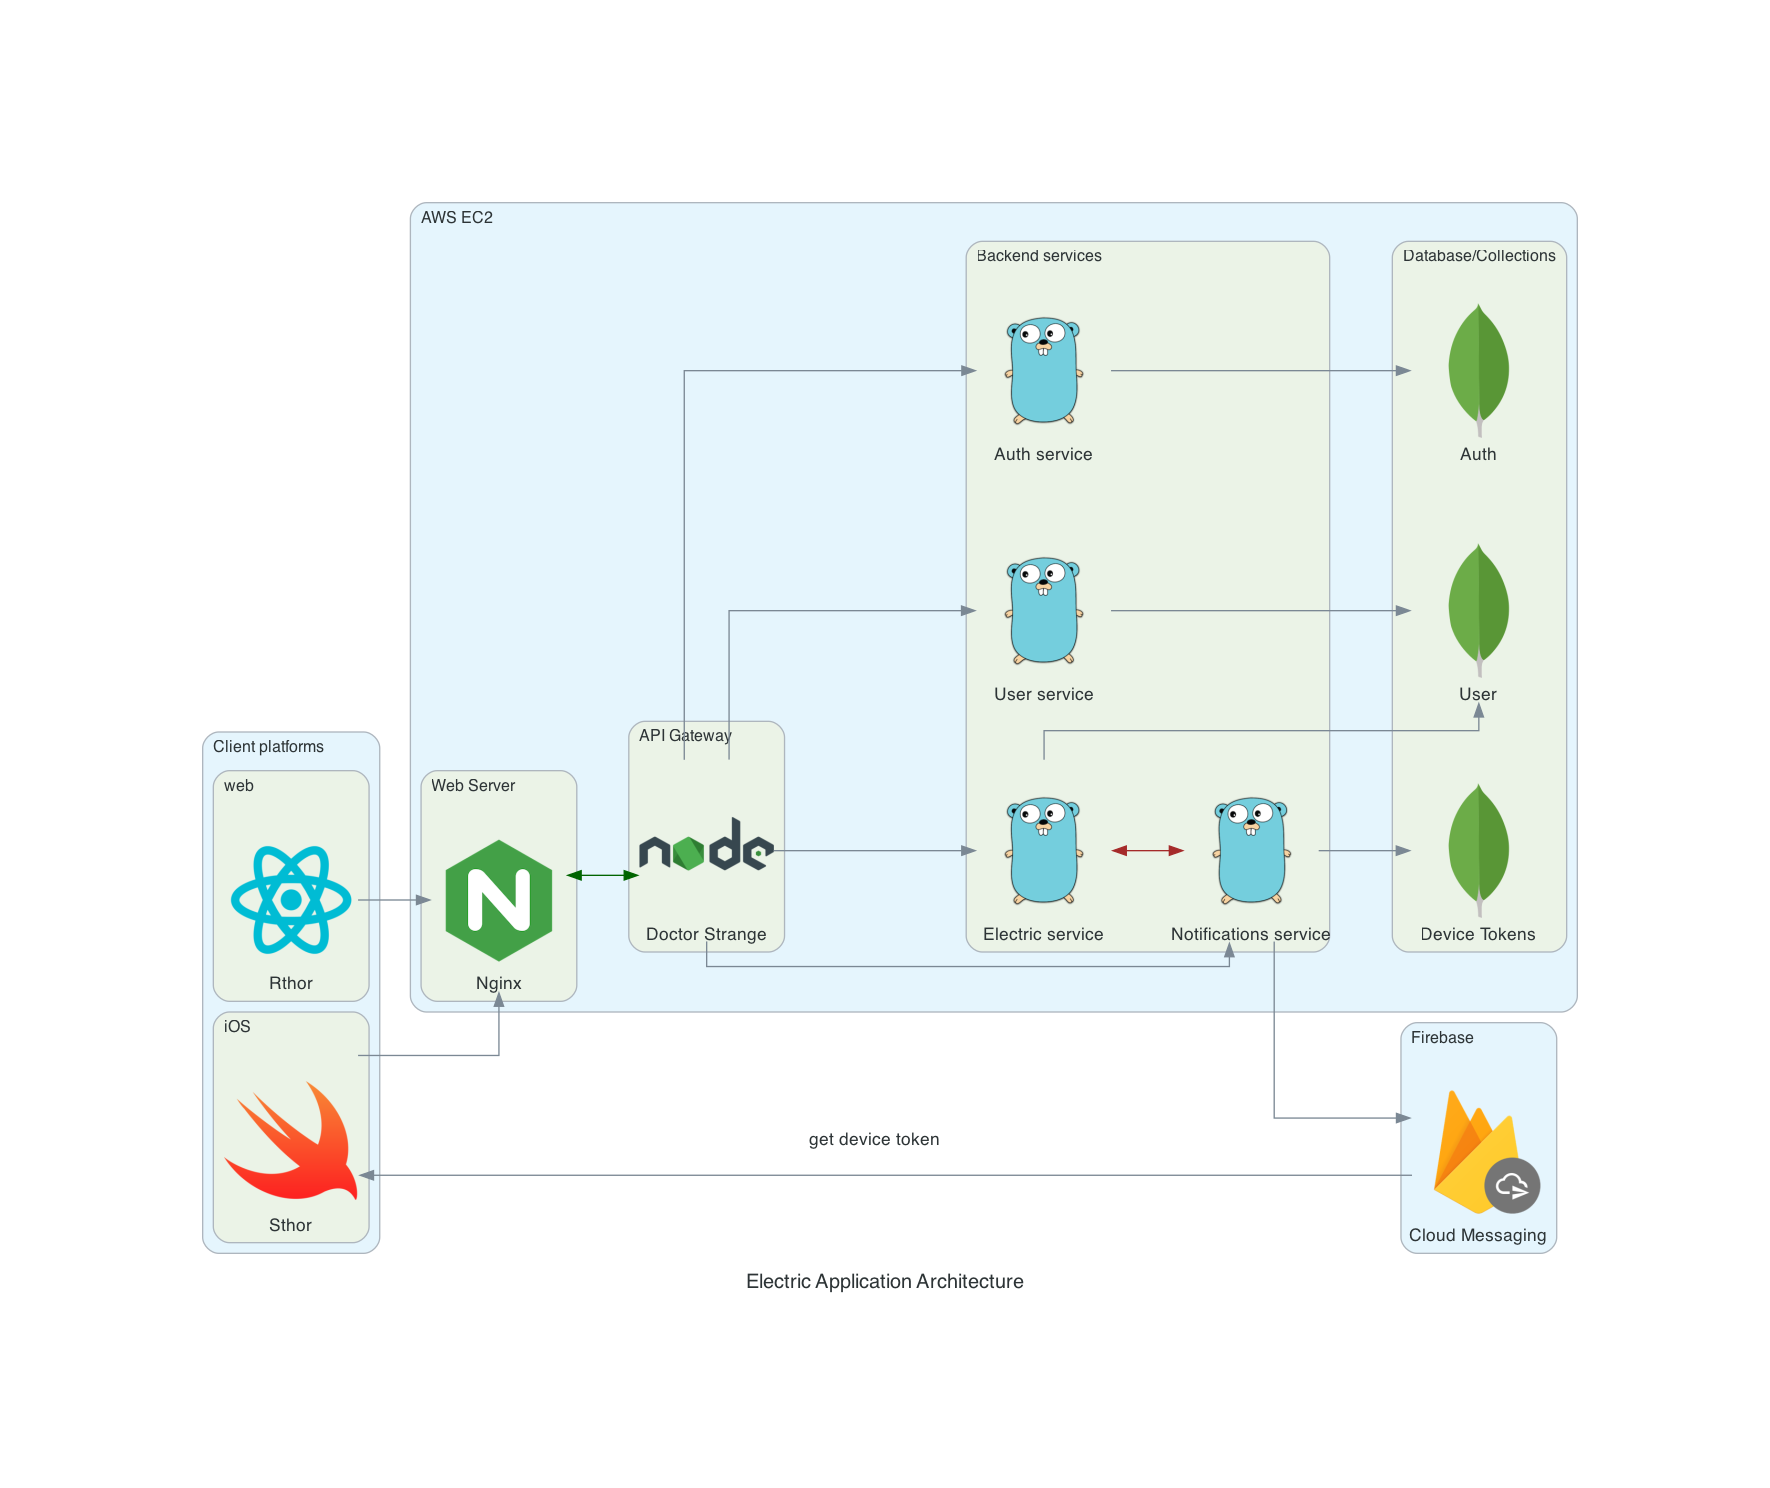
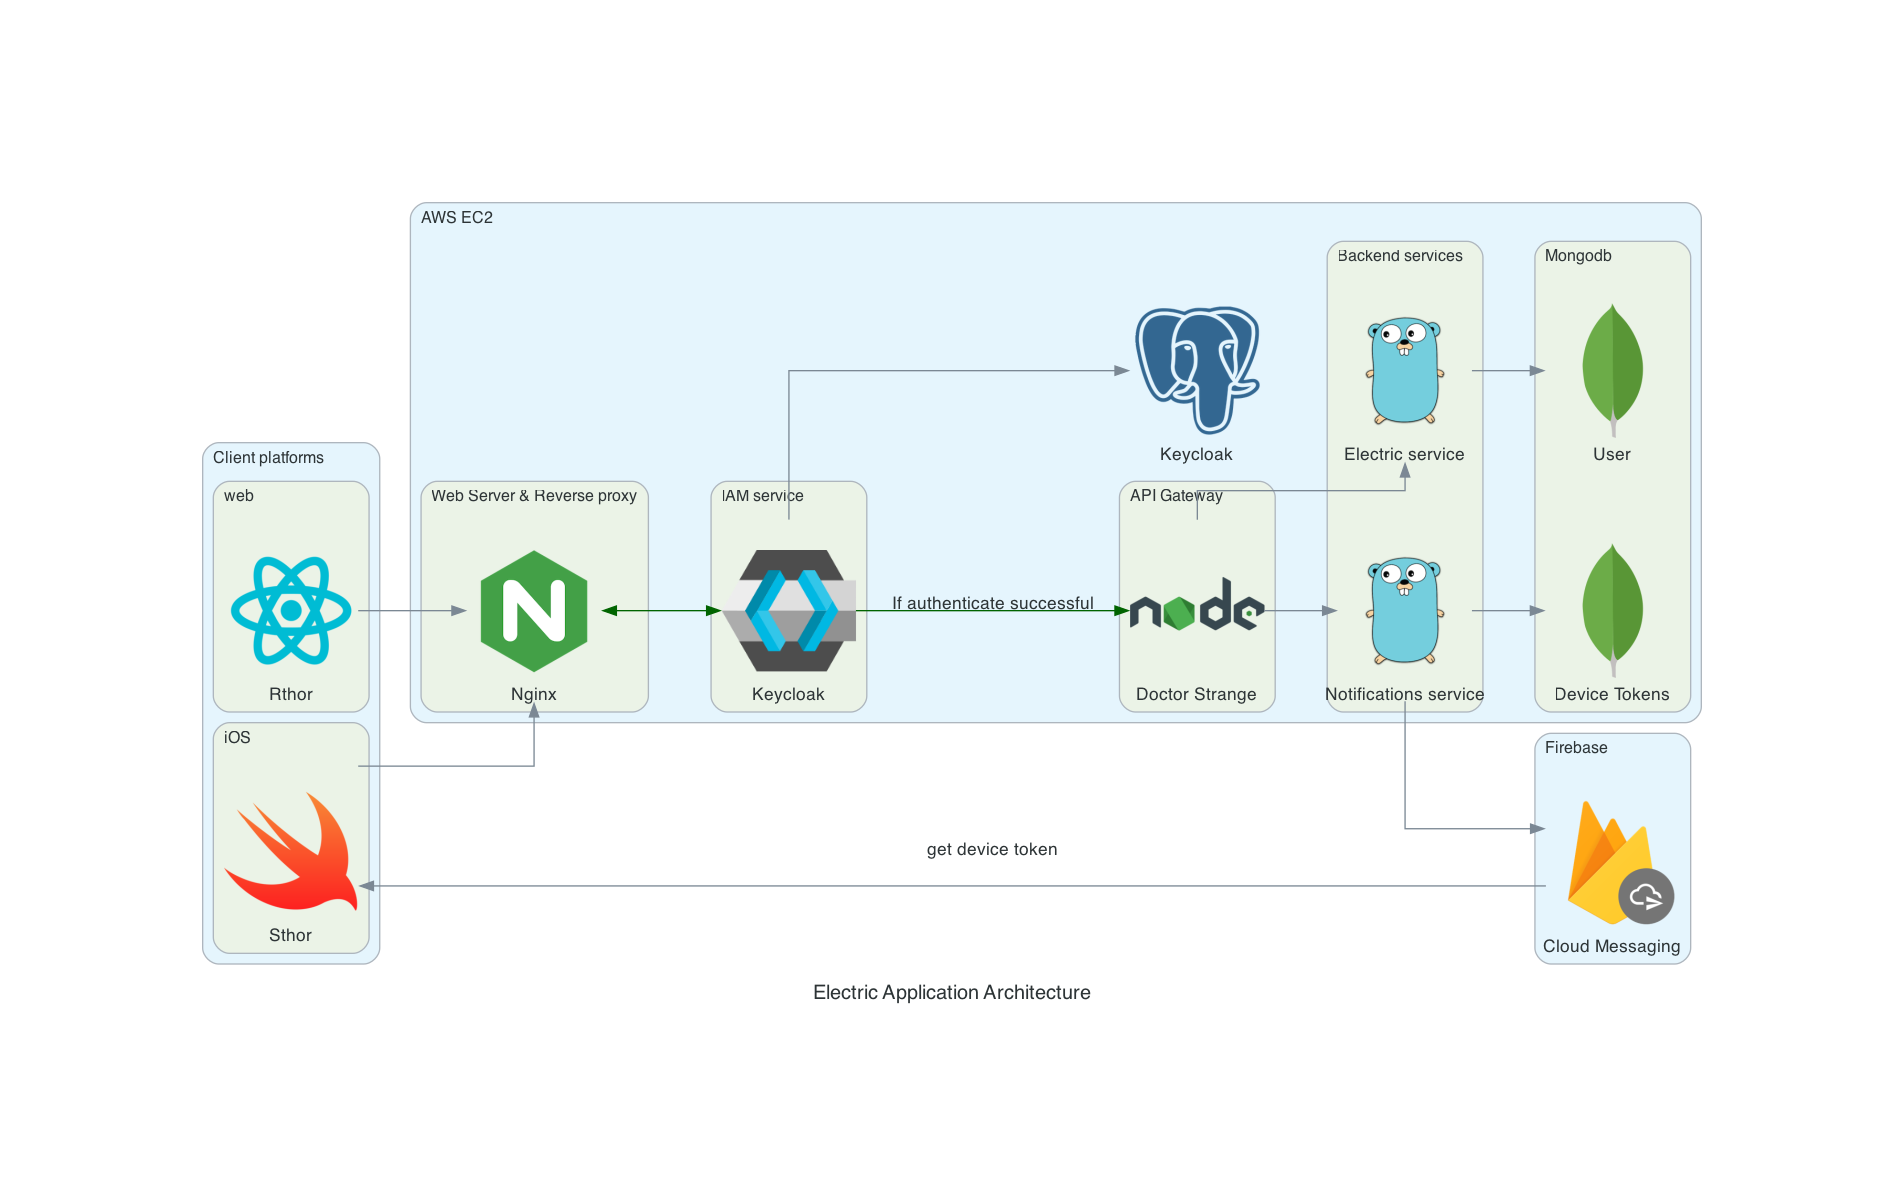
include keycloak custom image and update architecture

Changed region(s): [[0.0932, 0.1235, 0.9011, 0.8648], [0.435, 0.803, 0.5593, 0.8648]]

diff --git a/diagram.py b/diagram.py
@@ -1,12 +1,16 @@
 from diagrams import Diagram, Cluster, Edge
 from diagrams.onprem.network import Nginx
 from diagrams.programming.language import NodeJS, Go, Swift
-from diagrams.onprem.database import MongoDB
+from diagrams.onprem.database import MongoDB, PostgreSQL
 from diagrams.onprem.container import Docker
 from diagrams.firebase.grow import Messaging
 from diagrams.programming.framework import React
+from diagrams.custom import Custom
 
 with Diagram("Electric Application Architecture", show=False):
+
+    
+    # Client services 
     with Cluster('Client platforms'):
         with Cluster('iOS'):
             ios = Swift('Sthor')
@@ -15,35 +19,40 @@ with Diagram("Electric Application Architecture", show=False):
     # Firebase Cloud Messaging 
     with Cluster('Firebase'):
         fcm = Messaging("Cloud Messaging")   
+    
     with Cluster('AWS EC2'):   
-        with Cluster('Web Server'):         
+        with Cluster('Web Server & Reverse proxy'):         
             nginx = Nginx("Nginx")
+        with Cluster("IAM service"):
+            # define keycloak data 
+            keycloak = Custom("Keycloak", "./assets/keycloak.png")
+
         # Database
-        with Cluster('Database/Collections'):
-            auth_db = MongoDB("Auth")
+        with Cluster('Mongodb'):
             user_db = MongoDB("User")
             device_token_db = MongoDB("Device Tokens")
-
+        
         # Define services                     
         with Cluster('API Gateway'):
             api_gateway = NodeJS("Doctor Strange")
         with Cluster('Backend services'):
-            auth = Go("Auth service")             
-            user = Go("User service")
             electric = Go("Electric service")
             notifications = Go("Notifications service")
+            
+        keycloak_db = PostgreSQL("Keycloak")
+        
             
     # Architecture
     ios >> nginx 
     react >> nginx
-    nginx >> Edge(color="darkgreen") << api_gateway 
+    nginx >> Edge(color="darkgreen") << keycloak 
+    keycloak >> keycloak_db
+    keycloak >> Edge(color="darkgreen", label="If authenticate successful") >> api_gateway 
     
-    api_gateway >> auth >> auth_db
-    api_gateway >> user >> user_db
     api_gateway >> electric >> user_db
     api_gateway >> notifications 
     
-    electric >> Edge(color="brown") << notifications
+    # electric >> Edge(color="brown") << notifications
     notifications >> device_token_db
     notifications >> fcm >> Edge(label="get device token") >> ios
         
